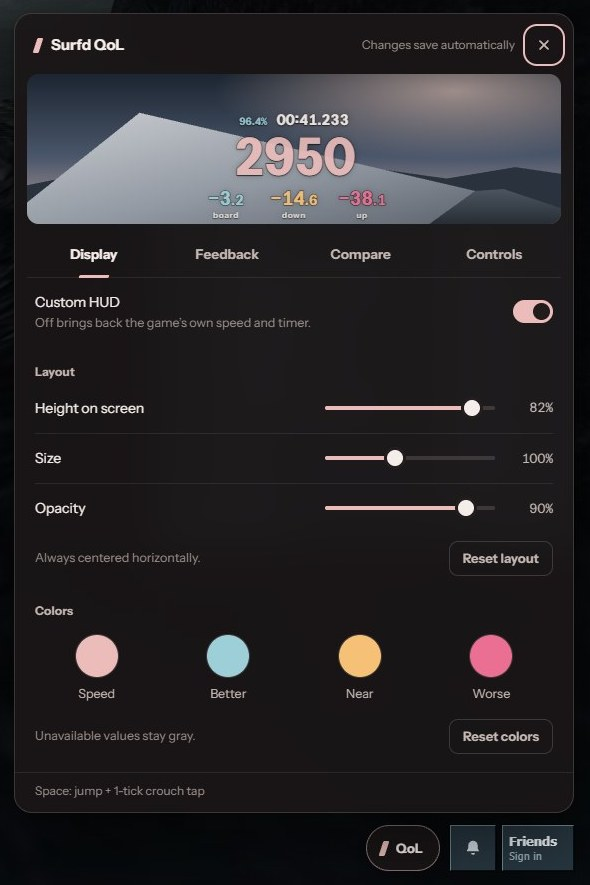
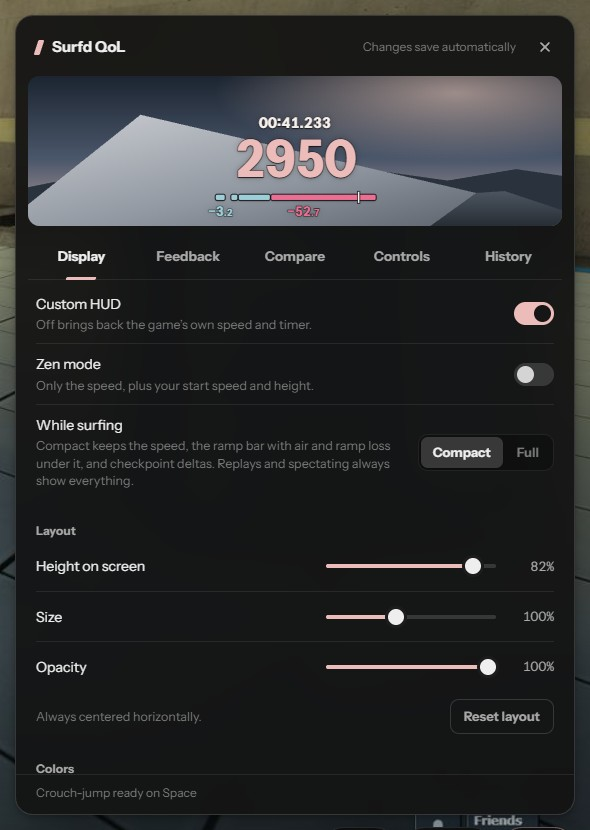
Document the ramp meter and refresh the screenshots
The README and download page describe the compact and full layouts and how
to read the bar, with new captures of the compact HUD on Utopia, the full
HUD on Boreas and the current settings panel.

diff --git a/docs/index.html b/docs/index.html
@@ -132,8 +132,8 @@ footer .wrap{display:flex;flex-wrap:wrap;justify-content:space-between;gap:10px 
   </div>
 
   <figure class="shot wrap">
-    <img src="hud.jpg" width="1440" height="810" alt="Surfd QoL's HUD on Utopia: speed 2462 with the timer and sync above it, and board, down and up values for the last ramp below.">
-    <figcaption>What you see most of the time: speed, timer and sync, and board, down and up for the last ramp. Utopia, during the KSF record route.</figcaption>
+    <img src="hud.jpg" width="1440" height="810" alt="Surfd QoL's compact HUD on Utopia just after a checkpoint: PB and KSF deltas above the speed 2950, and the ramp bar below it with the last flight's and the ramp's loss underneath.">
+    <figcaption>The compact HUD you surf with, just after a checkpoint: your gap to the PB and the KSF record above the speed, and the last ramp as a bar below it. Utopia.</figcaption>
   </figure>
 
   <section id="install">
@@ -178,7 +178,7 @@ footer .wrap{display:flex;flex-wrap:wrap;justify-content:space-between;gap:10px 
   <section id="numbers">
     <div class="wrap">
       <h2>What the numbers mean</h2>
-      <p class="lede measure">Each value stays up until the next ramp or flight replaces it, so you can read it in the air instead of mid-ramp. All of them are in units per second.</p>
+      <p class="lede measure">Under the speed, a bar shows your last flight and the ramp you landed on, in the order they happened, each part in the color of its grade. It's scaled so a ramp that costs what the reference ramp cost ends at the tick under the speed's last digit; past the tick is what you lost. Each value stays up until the next ramp or flight replaces it, so you can read it in the air instead of mid-ramp. All of them are in units per second.</p>
       <div class="row" aria-hidden="true">
         <div class="value"><b class="good">−2<small>.6</small></b><span class="lab">board</span></div>
         <div class="value"><b class="warn">−34<small>.4</small></b><span class="lab">down</span></div>
@@ -188,7 +188,8 @@ footer .wrap{display:flex;flex-wrap:wrap;justify-content:space-between;gap:10px 
         <div><dt>Board</dt><dd>Speed clipped off as you land on a ramp. Height conversion doesn't count.</dd></div>
         <div><dt>Down</dt><dd>What the ramp cost from boarding to the lowest point you touched, the board included.</dd></div>
         <div><dt>Up</dt><dd>What it cost from the lowest point to where you left the ramp. Down and Up add up to the whole ramp, board included.</dd></div>
-        <div><dt>Air</dt><dd>Your last flight: speed lost to braking plus gain missed by imperfect strafes. Shows in Down's place when you land.</dd></div>
+        <div><dt>Air</dt><dd>Your last flight: speed lost to braking plus gain missed by imperfect strafes. It's the left part of the bar.</dd></div>
+        <div><dt>Surf</dt><dd>The whole ramp, board included. While you surf, the bar shows just Air and this, the ramp's loss so far.</dd></div>
       </dl>
       <ul class="legend">
         <li class="good"><i></i><span>As good as the reference or better</span></li>
@@ -198,8 +199,8 @@ footer .wrap{display:flex;flex-wrap:wrap;justify-content:space-between;gap:10px 
       </ul>
       <p class="note measure">You choose what to compare against: the KSF record route (the default), Surfd's leaderboard #1, or your own PB. Even the record loses real speed on most ramps, so the comparison tells you more than the raw number.</p>
       <figure class="shot full">
-        <img src="hud-full.jpg" width="1280" height="720" alt="The full HUD on Boreas just after a checkpoint: split time and speed against the KSF record above the timer, speed 3025, and board, down and up values below.">
-        <figcaption>The full HUD, just after a checkpoint: split time and speed against your PB and the KSF record show above the timer for a few seconds. Each part can be shown or hidden on its own. Boreas.</figcaption>
+        <img src="hud-full.jpg" width="1440" height="810" alt="The full HUD on Boreas just after a checkpoint: the split with its PB and KSF deltas above the timer and sync, speed 2950, and the ramp bar with air, board, down, up and surf written out below." loading="lazy">
+        <figcaption>The full HUD, as replays and spectating show it: the split with its PB and KSF deltas for a few seconds, the timer and sync, and every ramp value under the bar. Each part can be shown or hidden on its own. Boreas.</figcaption>
       </figure>
     </div>
   </section>
@@ -211,6 +212,7 @@ footer .wrap{display:flex;flex-wrap:wrap;justify-content:space-between;gap:10px 
         <h2>Settings</h2>
         <ul class="measure">
           <li>Turn any value on or off; the rest re-centre.</li>
+          <li>A compact HUD while you surf and the full one in replays, or the full one everywhere.</li>
           <li>Zen mode for just speed and brief start stats, without hiding the replay’s hull indicator.</li>
           <li>Move, resize and recolor the HUD with a live preview.</li>
           <li>Grade each value against fixed targets, your PB, the KSF record or Surfd's #1.</li>
@@ -220,7 +222,7 @@ footer .wrap{display:flex;flex-wrap:wrap;justify-content:space-between;gap:10px 
         </ul>
         <p class="note measure">The game's physics and timing stay unchanged. Settings and recorded runs stay in your browser. Hidden feedback skips its analysis.</p>
       </div>
-      <img src="settings.jpg" width="590" height="885" alt="The Surfd QoL settings panel open in the game menu, with a live HUD preview, layout sliders and color choices.">
+      <img src="settings.jpg" width="590" height="830" alt="The Surfd QoL settings panel open in the game menu: a live preview of the compact HUD, Zen mode, the While surfing choice and layout sliders.">
     </div>
   </section>
 </main>

diff --git a/README.md b/README.md
@@ -1,8 +1,8 @@
 # Surfd QoL
 
-![Surfd QoL's HUD on Utopia: speed, timer and sync, and board, down and up values for the last ramp](docs/hud.jpg)
+![Surfd QoL's compact HUD on Utopia just after a checkpoint: PB and KSF time and speed deltas above the speed, and the ramp bar below it with the last flight's and ramp's loss underneath](docs/hud.jpg)
 
-*What it looks like most of the time. Each part can be shown or hidden on its own.*
+*The compact HUD you surf with, just after a checkpoint. Replays and spectating show everything, and each part can be shown or hidden on its own.*
 
 A Chrome extension for [surfd.net](https://surfd.net/) that shows where you lose speed, on each ramp and in the air, so you can find your mistakes and see what an optimal run does differently. It also adds start stats, PB and WR checkpoint splits, run history, replay controls, a crouch-jump bind and nullbinds.
 
@@ -31,11 +31,13 @@ You can close the bar with × or **Cancel**. Everything already loaded keeps wor
 
 ### The HUD
 
-Speed sits big on the centre line of the screen, with the timer and strafe sync just above it. Run labels only appear when they matter (PRACTICE, REPLAY, INVALID, SPECTATING); a normal ranked run shows none. Size, height, opacity and all colors are adjustable, and the HUD uses its own bundled font (Instrument Sans), so nothing is fetched from the web. The HUD hides in menus, loading screens and dialogs, and stays up for replays and spectating.
+Speed sits big on the centre line of the screen, with a bar for your last ramp under it. Size, height, opacity and all colors are adjustable, and the HUD uses its own bundled font (Instrument Sans), so nothing is fetched from the web. It hides in menus, loading screens and dialogs, and stays up for replays and spectating.
 
-**Zen** keeps just speed and the brief start stats. The replay’s crouched/standing indicator stays in the game’s key display.
+**Two layouts.** While you surf, the HUD stays compact: the speed, the ramp bar with two values under it, and for a few seconds your start stats or checkpoint deltas in the timer's place. Replays and spectating show the full HUD: the timer and strafe sync, each checkpoint's split, and every ramp value written out. Set **While surfing** to **Full** under **Display** to keep everything on while you run. **Zen** keeps just the speed and the start stats.
 
-Under the speed is a row of up to three feedback values, all in u/s. Each one stays until the next one replaces it, so you can glance at it in the air instead of mid-ramp.
+**The ramp bar** reads left to right in the order things happened: your last flight (AIR), a small gap, then the ramp you landed on: the board, the rest of the way down, and the way up. Each part takes the color of its grade. The bar is scaled to the reference: a ramp that costs exactly what the reference ramp cost ends at the tick under the speed's last digit, and anything past the tick is what you lost. With fixed grading there's no reference, so there's no tick. While surfing, the two values under the bar are the flight's loss and what the ramp has cost you so far: its board right after you land, then the whole ramp once you leave it. Right after landing, the previous ramp stays faintly behind the new board.
+
+The values, all in u/s. Each one stays until the next ramp or flight replaces it, so you can glance at it in the air instead of mid-ramp.
 
 | Value | What it measures |
 |---|---|
@@ -43,12 +45,13 @@ Under the speed is a row of up to three feedback values, all in u/s. Each one st
 | **DOWN** | What the ramp cost you on the way down, from the moment you boarded (so it includes the board) to the lowest point you touched. |
 | **UP** | What it cost you from the lowest point to where you left the ramp: the turn up and the exit. |
 | **AIR** | Your last flight between ramps: speed lost to air braking plus gain missed by imperfect strafes. You can show either part on its own. |
+| **SURF** | The whole ramp: DOWN + UP, board included. It's the value under the bar while you surf. |
 
-Down and Up are measured against perfect gravity-only conversion. If you board at 2500 u/s and leave lower or higher, the height change is converted back to speed before comparing, so climbing a ramp is never counted as a loss. **Down + Up equals the whole-ramp loss exactly, board included.** Prefer one number per ramp? Set **Ramp result** to **Net** to show a single SURF value instead: the same whole-ramp loss, board included.
+Down and Up are measured against perfect gravity-only conversion. If you board at 2500 u/s and leave lower or higher, the height change is converted back to speed before comparing, so climbing a ramp is never counted as a loss. **Down + Up equals the whole-ramp loss exactly, board included.** Prefer one number per ramp in the full HUD? Set **Ramp result** to **Net** to show SURF instead of DOWN and UP.
 
 Don't chase zero. Ramp surfing always bleeds some speed; on Cannonball's second ramp the KSF record still loses 34 u/s going down and 16 coming up. That's why the useful comparison is against a reference run, which is the default.
 
-The three sit in ramp order: board, down, up. AIR shares the middle slot with DOWN: when you land on the next ramp, the flight you just finished replaces the previous ramp's DOWN, and UP turns grey because it now belongs to the previous ramp. Turn any of them off and the rest re-centre.
+Turn any of them off and the bar and the values leave it out.
 
 ### Colors
 
@@ -65,15 +68,15 @@ A worse number is a measurement, not proof of a mistake. A different line or ent
 
 ### Start
 
-For 1.8 seconds after you leave the start zone you see your exit **speed** (350 is the airborne cap, 325 grounded) and your **height** above the start platform (lower is better; crouching doesn't fake it). Grade it against fixed targets, your PB or the WR.
+For 1.8 seconds after you leave the start zone you see your exit **speed** (350 is the airborne cap, 325 grounded) and your **height** above the start platform (lower is better; crouching doesn't fake it), where the checkpoint deltas go. While surfing, your strafe sync sits between them. Grade them against fixed targets, your PB or the WR.
 
 ### Checkpoints
 
-At each checkpoint you get your split time and speed, plus time and speed deltas against your PB, the WR, or both. The reference comes from the full replay, never per-checkpoint bests.
+At each checkpoint you get time and speed deltas against your PB, the WR, or both, for a few seconds; the full HUD also shows the split's own time and speed above them. The reference comes from the full replay, never per-checkpoint bests.
 
-![The full HUD on Boreas just after a checkpoint: split time and speed against the KSF record above the timer, and board, down and up values below](docs/hud-full.jpg)
+![The full HUD on Boreas just after a checkpoint, as replays show it: the split with its PB and KSF deltas, the timer and sync, the speed, and the ramp bar with air, board, down, up and surf written out under it](docs/hud-full.jpg)
 
-*The full HUD, just after a checkpoint.*
+*The full HUD, as replays and spectating show it, just after a checkpoint.*
 
 ### Binds
 
@@ -117,7 +120,7 @@ Replays get full feedback, plus a **Hull: crouched / standing** line in the game
 
 ### Optional extras
 
-- **Live feedback** (off by default): the values update continuously instead of holding. Meant for watching replays, not for runs.
+- **Live feedback** (off by default): a row of values that update continuously instead of the ramp bar. Meant for watching replays, not for runs.
 - **Tint speed by energy** (experimental, off by default): the speed number turns teal while you gain units and red while you lose them. It tracks speed and height together, so falling or climbing doesn't count, only strafe gains, braking, clips and friction do. Ramps are excluded unless you enable **Include ramps**, because surfing a ramp always bleeds some energy and would read red almost all the time.
 
 ## Is it safe for ranked runs?
